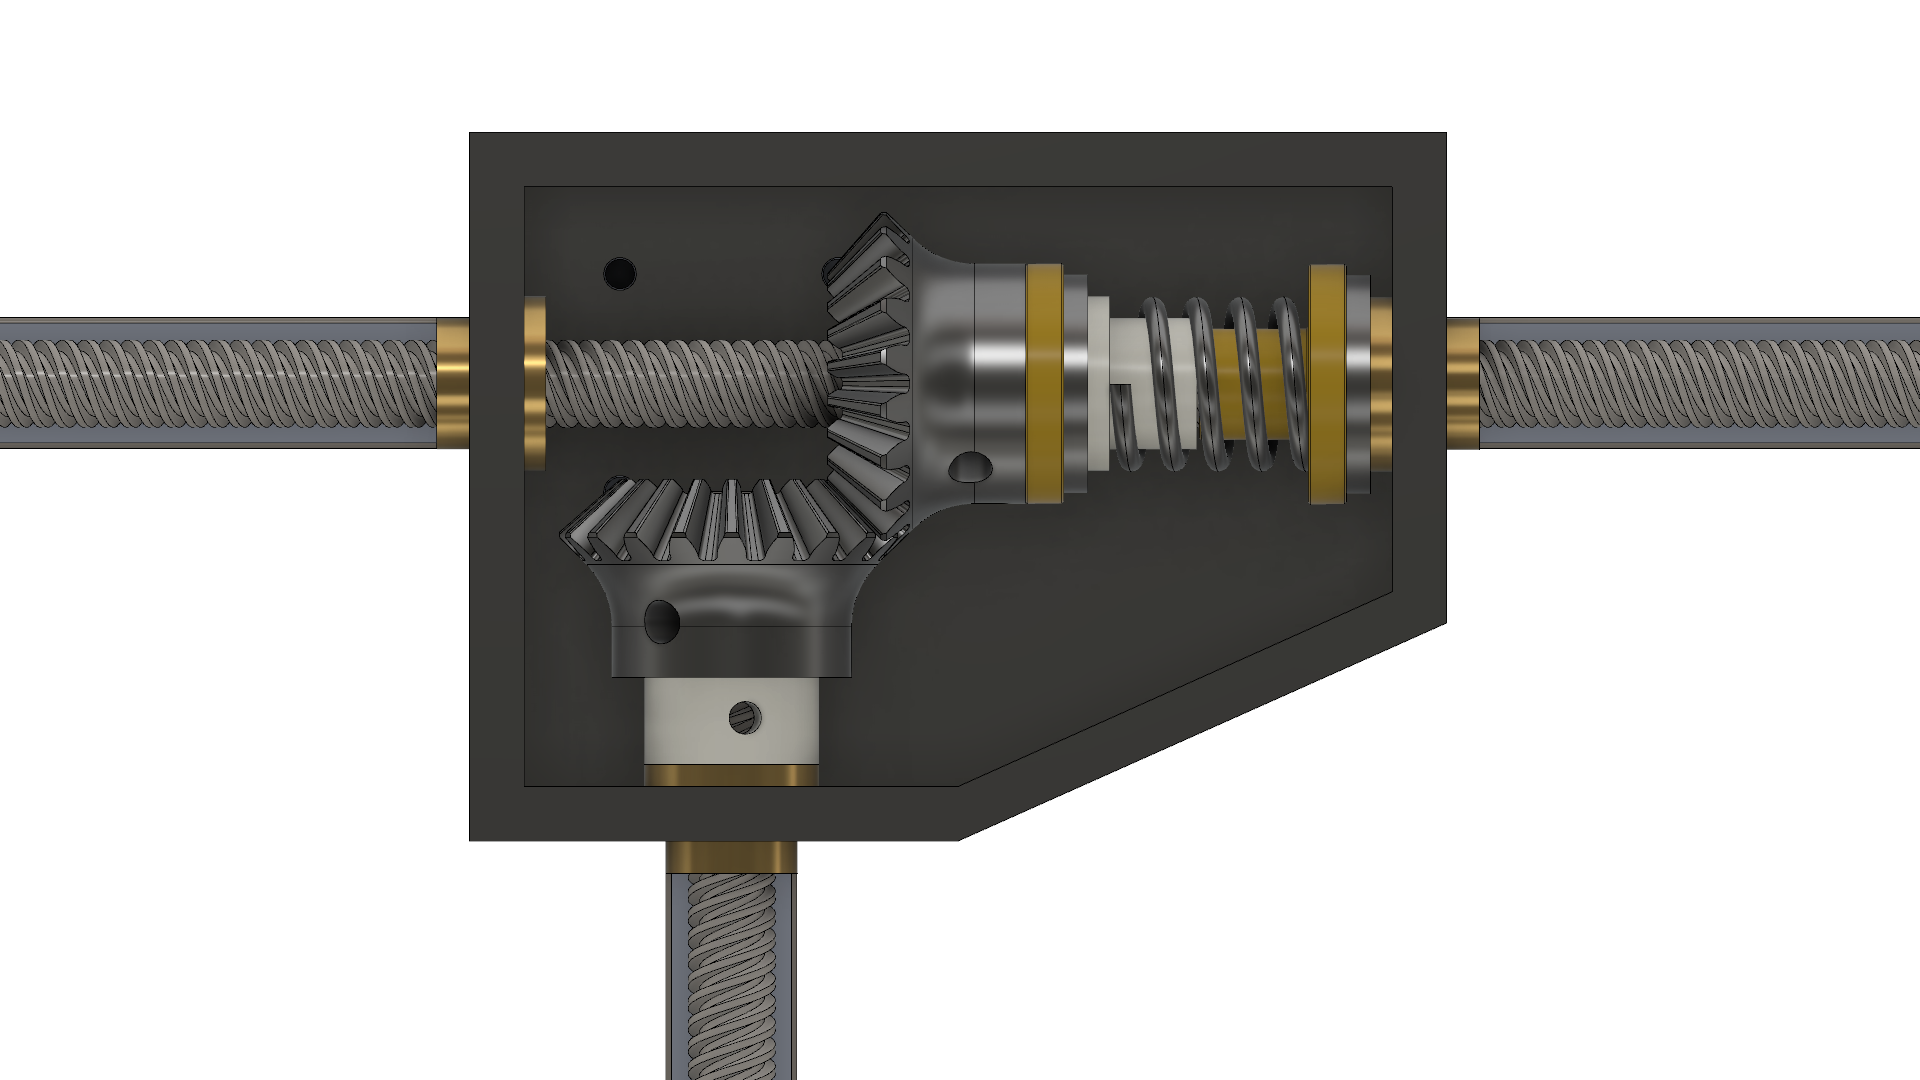
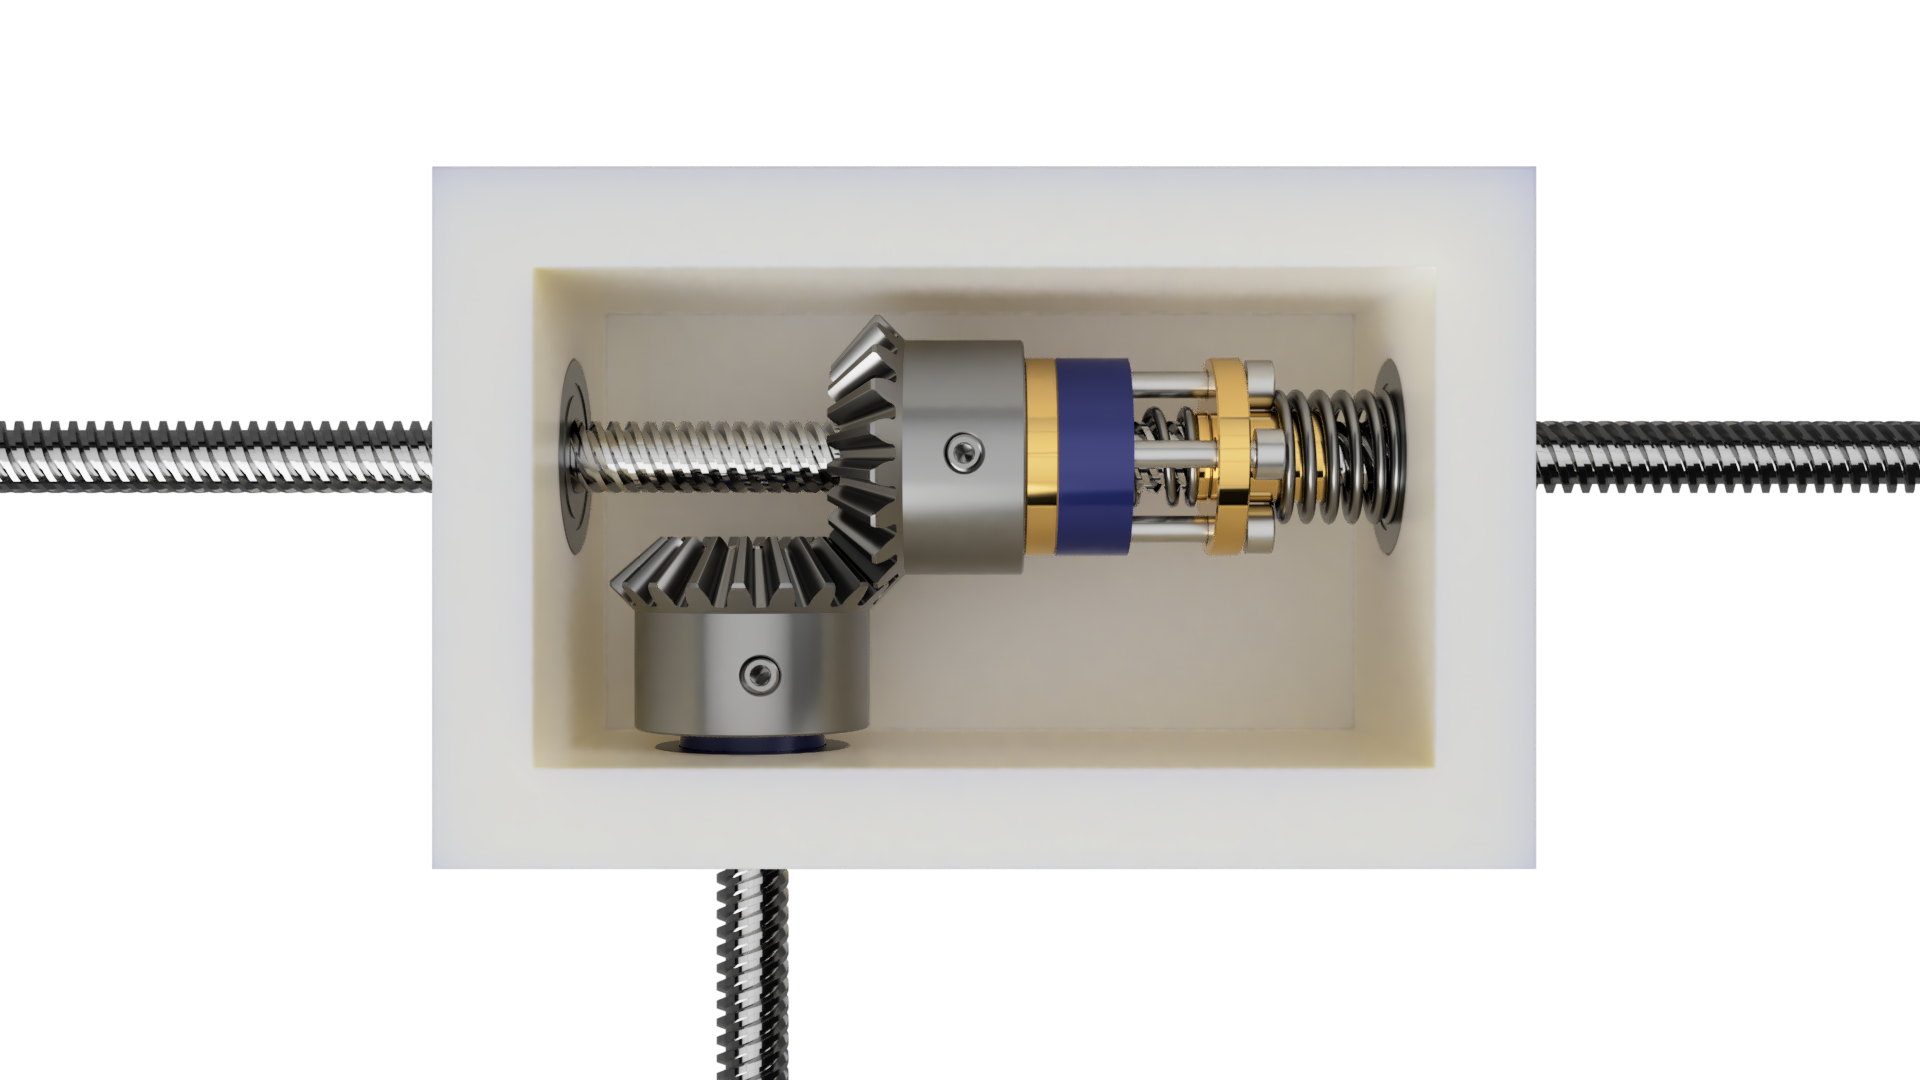
Update gearbox design renders and description

diff --git a/README.md b/README.md
@@ -33,6 +33,8 @@ An illustration of the gearing motions can be seen here: ![Motion](Motion.gif)
 
 A detailed view of a proposed gearbox design is provided: ![Gearbox](Gearbox.png)
 
+And with certain parts transparent to see interior details: ![X-Ray](Gearbox_Xray.png)
+
 > Care was taken to ensure that both the nuts and gears are preloaded against backlash, as well as providing low-friction mating surfaces and bosses, for pieces that have to rotate against each other. Clamping and insertion points are provided for pieces that have to rotate together. The following section discusses backlash in detail.
 
 Lastly, the lead screws' `lead` specification dictates how far a driven nut will travel per revolution. It does not apply when the nut is spinning with the screw, but in this design, when the `Y` nuts spin in place, the equal-sized gears transmit the rotation to the `X` screw, which drives the `X` carriage via its own nut. Therefore both axes are driven at the same mm/revolution rate that the screw `lead` dictates.
@@ -43,9 +45,9 @@ Lastly, the lead screws' `lead` specification dictates how far a driven nut will
 
 A major consideration when using screws, nuts, or gears is backlash. Backlash is when mating surfaces that transfer motion in one direction have some 'play' when the direction is reversed, before the mating surfaces engage again the other way. This leads to a loss of synchronization between the input and output, and accuracy suffers.
 
-The proposed gearbox makes use of dual screw nuts preloaded with a spring. The right nut in the picture can rotate freely, which allows the spring to keep it pushed against the screw threads to the right. Likewise, the spring pushes the left nut (attached to the gear) to the left, keeping it preloaded against the screw threads to the left. Therefore, either direction the screw spins, the backlash is taken up.
+The proposed gearbox makes use of dual screw nuts preloaded with a spring. The two nuts are pushed apart, forming an anti-backlash nut pair. Bolts are used through the flanges, threaded through a small insert to keep them in place, but not providing clamping force. Therefore, either direction the screw spins, the backlash is taken up.
 
-Similarly, the bevel gear teeth can be meshed fully, or separated to some degree. If they are fully meshed and fit precisely, backlash is taken up. The same spring preloading the screw nuts also preloads the `Y` gears by pushing them into the `X` gears.
+Similarly, the bevel gear teeth can be meshed fully, or separated to some degree. If they are fully meshed and fit precisely, backlash is taken up. The rightmost spring preloads the `Y` gear/nut assembly by pushing it into the `X` gears.
 
 With any preloading/anti-backlash system, wear is a concern. With proper lubrication on the nuts and gears, and with the proper spring strength, wear should be minimal since the gantry load is relatively small compared to the strength of the materials.
 
